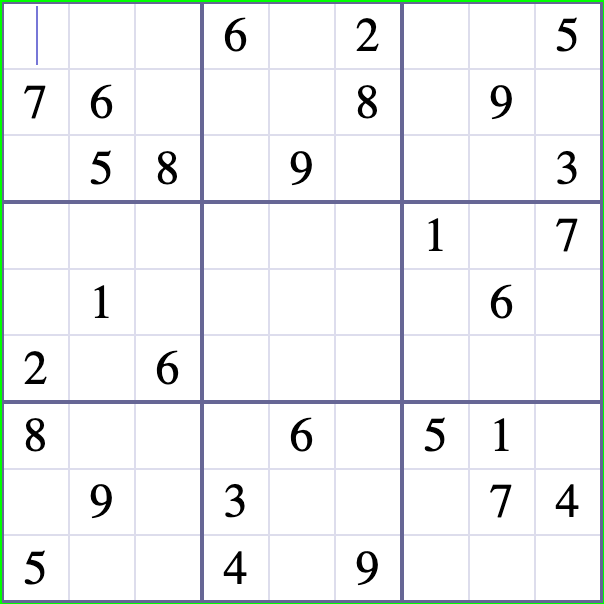
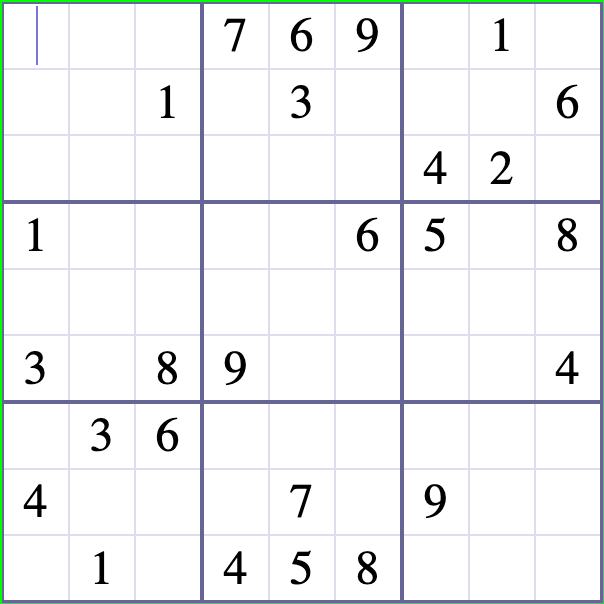
Added coolness

diff --git a/main.py b/main.py
@@ -107,26 +107,28 @@ class Sudoku:
                 return True
         return False
 
-    def guess(self):
+    def find_guess(self):
         for i in range(9):
             for j in range(9):
                 if len(self.poss(i, j)) == 2:
-                    i = i
-                    j = j
-                    guess = list(self.poss(i, j))[0]
-                    print(i, j, guess)
-                    break
-            break
+                    ind = i
+                    j_ind = j
+                    poss = list(self.poss(i, j))
+                    myguess = poss[0]
+                    return ind, j_ind, poss, myguess
 
+    def guess(self):
+        ind, j_ind, poss, myguess = self.find_guess()
+        print(ind, j_ind, poss, myguess)
+        print(self.board[ind][j_ind])
         new_board = Sudoku(str(self))
-        new_board.board[i][j] = guess
         new_board.reduce()
-        print(new_board)
+        new_board.board[ind][j_ind] = myguess
         if new_board.is_solved() and not new_board.is_error():
             self.board = new_board.board
         else:
-            guess = list(self.poss(i, j))[1]
-            self.board[i][j] = guess
+            myguess = poss[1]
+            self.board[ind][j_ind] = myguess
 
     def reduce(self):
         while True:
@@ -140,28 +142,27 @@ class Sudoku:
 
     def solve(self):
         self.reduce()
-        self.guess()
+        if not self.is_solved():
+            self.guess()
 
 
 def main():
     board = \
-        """..5....84
-.4.8..25.
-...5..6.3
-3....4.9.
-69...7...
-.......45
-...4...7.
-.8.7...2.
-..3...5.."""
+        """...769.1.
+..1.3...6
+......42.
+1....65.8
+.........
+3.89....4
+.36......
+4...7.9..
+.1.458..."""
 
     t_board = Sudoku(board)
 
     print(t_board)
     t_board.solve()
     print(t_board)
-    print(t_board.is_error())
-    print(t_board.is_solved())
 
 
 if __name__ == "__main__":

diff --git a/import_board.py b/import_board.py
@@ -65,12 +65,14 @@ def impt_board(saved, level="1"):
                 cv.drawContours(mask, [c], -1, (255, 255, 255), -1)
                 result = cv.bitwise_and(image, mask)
                 result[mask == 0] = 255
+                grayResult = cv.cvtColor(result, cv.COLOR_BGR2GRAY)
+                resThresh = cv.adaptiveThreshold(grayResult, 255, cv.ADAPTIVE_THRESH_GAUSSIAN_C, cv.THRESH_BINARY_INV, 57 , 5)
 
                 # Check if there are any black pixels. If there are, perform OCR
-                black = np.sum(result == 0)
-                #new_cnts, _ = cv.findContours(result, cv.RETR_TREE, cv.CHAIN_APPROX_SIMPLE)
+                #black = np.sum(result == 0)
+                new_cnts, _ = cv.findContours(resThresh, cv.RETR_TREE, cv.CHAIN_APPROX_SIMPLE)
 
-                if black > 0:
+                if len(new_cnts) > 0:
                     config = r'--oem 3 --psm 10'
                     num = pytesseract.image_to_string(result, lang="eng", config=config)
                     num = num.split("\n")[0]
@@ -99,7 +101,7 @@ def impt_board(saved, level="1"):
     print(Sudoku(board), "\n")
 
     parsed_board = Sudoku(board)
-    parsed_board.reduce()
+    parsed_board.solve()
 
     print("Solved board:")
     print(parsed_board)

diff --git a/util.py b/util.py
@@ -10,6 +10,7 @@ def find_board(level="1", web=True):
     if web:
         driver = webdriver.Chrome(service=Service(ChromeDriverManager().install()))
         driver.get(f"https://www.websudoku.com/?level={level}")
+        #driver.get(f"https://www.sudoku.com/")
         driver.save_screenshot("fullscreen.png")
 
     image = cv.imread("fullscreen.png")
